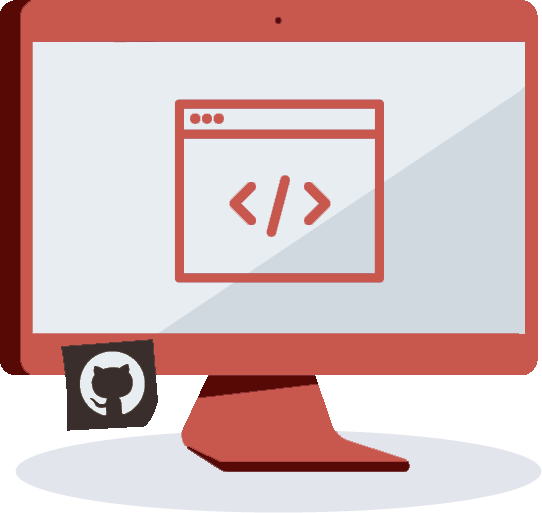
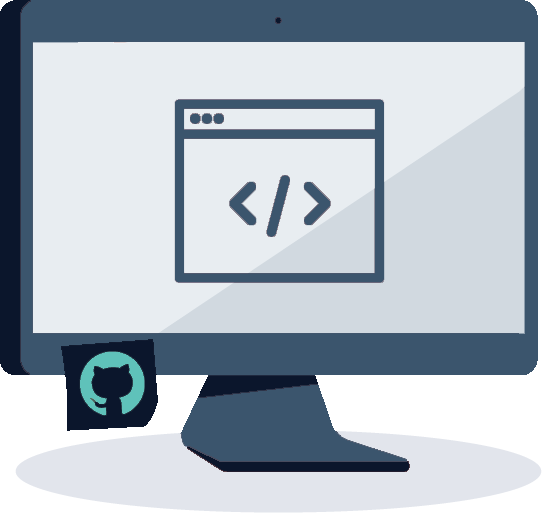
Change all colors for my website

diff --git a/src/components/portfolio/portfolio.min.css b/src/components/portfolio/portfolio.min.css
@@ -1,1 +1,1 @@
-.portfolio{background-color:#D5CABC;text-align:center;flex-direction:column;align-items:center}.portfolio .tools{color:#560905;text-transform:uppercase;font-weight:500}.portfolio p{color:#560905}.portfolio h1{font-size:50px;color:#560905}.portfolio ul{margin:10px;padding:0;list-style:none;display:flex;align-items:center;justify-content:center;padding-bottom:15px;color:#560905}@media (max-width: 768px){.portfolio ul{display:flex;flex-direction:column;justify-content:space-between;margin-bottom:10px}}.portfolio .container{width:100%;display:flex}.container2{width:100%;height:auto;text-align:center}.container2 .title_portfolio{padding-bottom:15px;text-transform:uppercase}.container2 .formation_portfolio{padding-top:20px;font-size:25px;text-transform:uppercase;font-weight:500}.container2 img{display:block;margin-right:auto;margin-left:auto;padding-bottom:10%}@media (max-width: 768px){.container2 img{width:100%}}@media (max-width: 1380px){.container2 img{width:100%}}.container2 .cta-links{font-size:25px;display:flex;align-items:center;text-align:center;justify-content:center}.container2 .cta-links a{text-decoration:none;color:#2997ff;cursor:pointer;padding-right:2%}.btn-portfolio{padding:10px 20px;margin-right:50px;display:block;font-size:18px;background-color:#C8574D;color:white;border-radius:15px;border:none;cursor:pointer;text-transform:uppercase}.btn-portfolio:hover{color:white;background:#392E2C;text-decoration:none}.modal_portfolio,.overlay{width:100vw;height:100vh;top:0;left:0;right:0;bottom:0;position:fixed}.overlay{background:rgba(49,49,49,0.8)}.modal_content{position:absolute;top:50%;left:50%;transform:translate(-50%, -50%);line-height:1.4;background:#f1f1f1;padding:30px 28px;border-radius:3px;width:65%}.modal_content h1{font-size:2.5rem;text-align:center;padding:25px 0}.modal_details{text-align:center;padding-bottom:2rem;border-bottom:1px solid #392E2C}@media (max-width: 768px){.modal_details{padding-bottom:1rem}}.modal_details h1{font-size:3.2rem;padding:0}@media (max-width: 768px){.modal_details h1{font-size:2rem}}.modal_details h2{color:#C8574D;font-size:1.5rem;padding-top:10px}.modal_details p{font-size:1.3rem;padding:20px 0;text-align:justify}@media (max-width: 768px){.modal_details p{font-size:1rem;padding:10px 0}}.modal_details a{font-weight:500;color:#C8574D;font-size:1.2rem;cursor:pointer;text-transform:uppercase}.modal_title{font-size:3.2rem}.modal_description{margin-top:2rem;font-size:1.6rem}.modal_text{font-size:1.3rem;padding:10px 0;text-align:justify}@media (max-width: 768px){.modal_text{font-size:1rem;padding:0}}.close_modal{position:absolute;top:10px;right:10px;padding:5px 7px;border-radius:100%;border:1px solid rgba(255,255,255,0);background:transparent;font-size:2.4rem;letter-spacing:0.2rem;transition:0.2s;cursor:pointer}.close_modal:focus,.close_modal:hover{border-color:rgba(255,255,255,0);transform:translateY(-0.2rem)}
+.portfolio{background-color:#fff;text-align:center;flex-direction:column;align-items:center}.portfolio .tools{color:#0B162C;text-transform:uppercase;font-weight:500}.portfolio p{color:#0B162C}.portfolio h1{font-size:50px;color:#0B162C}.portfolio ul{margin:10px;padding:0;list-style:none;display:flex;align-items:center;justify-content:center;padding-bottom:15px;color:#0B162C}@media (max-width: 768px){.portfolio ul{display:flex;flex-direction:column;justify-content:space-between;margin-bottom:10px}}.portfolio .container{width:100%;display:flex}.container2{width:100%;height:auto;text-align:center}.container2 .title_portfolio{padding-bottom:15px;text-transform:uppercase}.container2 .formation_portfolio{padding-top:20px;font-size:25px;text-transform:uppercase;font-weight:500}.container2 img{display:block;margin-right:auto;margin-left:auto;padding-bottom:10%}@media (max-width: 768px){.container2 img{width:100%}}@media (max-width: 1380px){.container2 img{width:100%}}.container2 .cta-links{font-size:25px;display:flex;align-items:center;text-align:center;justify-content:center}.container2 .cta-links a{text-decoration:none;color:#2997ff;cursor:pointer;padding-right:2%}.btn-portfolio{padding:10px 20px;margin-right:50px;display:block;font-size:18px;background-color:#3B556D;color:white;border-radius:15px;border:none;cursor:pointer;text-transform:uppercase}.btn-portfolio:hover{color:white;background:#5FC2BA;text-decoration:none}.modal_portfolio,.overlay{width:100vw;height:100vh;top:0;left:0;right:0;bottom:0;position:fixed}.overlay{background:rgba(49,49,49,0.8)}.modal_content{position:absolute;top:50%;left:50%;transform:translate(-50%, -50%);line-height:1.4;background:#f1f1f1;padding:30px 28px;border-radius:3px;width:65%}.modal_content h1{font-size:2.5rem;text-align:center;padding:25px 0}.modal_details{text-align:center;padding-bottom:2rem;border-bottom:1px solid #0B162C}@media (max-width: 768px){.modal_details{padding-bottom:1rem}}.modal_details h1{font-size:3.2rem;padding:0}@media (max-width: 768px){.modal_details h1{font-size:2rem}}.modal_details h2{color:#3B556D;font-size:1.5rem;padding-top:10px}.modal_details p{font-size:1.3rem;padding:20px 0;text-align:justify}@media (max-width: 768px){.modal_details p{font-size:1rem;padding:10px 0}}.modal_details a{font-weight:500;color:#3B556D;font-size:1.2rem;cursor:pointer;text-transform:uppercase;font-weight:800}.modal_title{font-size:3.2rem}.modal_description{margin-top:2rem;font-size:1.6rem}.modal_text{font-size:1.3rem;padding:10px 0;text-align:justify}@media (max-width: 768px){.modal_text{font-size:1rem;padding:0}}.close_modal{position:absolute;top:10px;right:10px;padding:5px 7px;border-radius:100%;border:1px solid rgba(255,255,255,0);background:transparent;font-size:2.4rem;letter-spacing:0.2rem;transition:0.2s;cursor:pointer}.close_modal:focus,.close_modal:hover{border-color:rgba(255,255,255,0);transform:translateY(-0.2rem)}

diff --git a/src/components/works/works.min.css b/src/components/works/works.min.css
@@ -1,1 +1,1 @@
-h1{font-size:50px;text-align:center;padding-bottom:50px;color:#1C263D;text-transform:uppercase}.section{display:flex;justify-content:center;padding-left:75px}.wall{display:flex}.v-boxes{display:flex;flex-direction:column}.v-boxes:not(:first-child){margin-left:-75px}.second{margin-top:75px}.third{margin-top:150px}.forth{margin-top:225px}.box{width:100px;height:100px;-webkit-transform:rotate(45deg);-ms-transform:rotate(45deg);-moz-transform:rotate(45deg);transform:rotate(45deg);margin:25px;cursor:pointer}.box:hover:not(.link)>.box-face,.box:hover>.box-back{transform:translateZ(100px) rotateX(180deg);background-color:transparent !important}.box:hover:not(.link)>.box-face>.box-text{opacity:0}.box:hover .tooltip{visibility:visible;opacity:1}.box:hover.link>.box-face{background-color:transparent !important}.box:hover.link>.box-face>.box-text{color:#323232}.box.link>.box-face{background-color:#323232;border:1px solid #323232;box-sizing:border-box;transition:background-color .5s}.box.link .box-text{color:#efefef;transition:color .5s}.box-face,.box-back{cursor:pointer;position:absolute;top:0;z-index:1;width:100px;height:100px;background-color:#333533;-webkit-transform:rotate(90deg);-ms-transform:rotate(90deg);-moz-transform:rotate(90deg);transform:rotate(90deg);transform-style:preserver-3d;-webkit-transform-style:preserver-3d;-moz-transform-style:preserver-3d;transition:transform 1s, background-color 0s .3s}.box-face .box-text{padding-right:20px;padding-bottom:20px;text-align:center;font-size:40px;color:#bababa;-webkit-transform:rotate(-135deg);-ms-transform:rotate(-135deg);-moz-transform:rotate(-135deg);transform:rotate(-135deg);transition:opacity 0s linear .3s}.box-back .box-text{position:absolute;top:50%;left:10%;text-align:center;font-size:14px;color:#636363;-webkit-transform:rotate(-135deg);-ms-transform:rotate(-90deg);-moz-transform:rotate(-90deg);transform:rotate(-135deg) rotateY(180deg);transition:opacity 0s linear .3s}a{color:inherit;text-decoration:none}.box-text{fill:white}.box-back{z-index:0;background-image:linear-gradient(#fff, #efefef)}.box-text img{max-width:32px;max-height:32px;-webkit-filter:grayscale(100%) saturate(0);filter:grayscale(100%) saturate(0);opacity:.5}.tooltip{visibility:hidden;opacity:0;position:absolute;bottom:26px;left:30px;width:70px;font-size:13px;color:#000;text-align:center;border-top:1px solid rgba(0,0,0,0.8);padding:5px 0;z-index:1000;-webkit-transform:rotate(-45deg);-ms-transform:rotate(-45deg);-moz-transform:rotate(-45deg);transform:rotate(-45deg);transition:visibility 0s linear .3s, opacity 1s linear .3s}.tooltip:after{position:absolute;top:-5px;left:35px;content:' ';width:0;height:0;border-left:5px solid transparent;border-right:5px solid transparent;border-bottom:5px solid black}
+.skills{background-color:#fff}h1{font-size:50px;text-align:center;padding-bottom:50px;color:#560905;text-transform:uppercase}.section{display:flex;justify-content:center;padding-left:75px}.wall{display:flex}.v-boxes{display:flex;flex-direction:column}.v-boxes:not(:first-child){margin-left:-75px}.second{margin-top:75px}.third{margin-top:150px}.forth{margin-top:225px}.box{width:100px;height:100px;-webkit-transform:rotate(45deg);-ms-transform:rotate(45deg);-moz-transform:rotate(45deg);transform:rotate(45deg);margin:25px;cursor:pointer}.box:hover:not(.link)>.box-face,.box:hover>.box-back{transform:translateZ(100px) rotateX(180deg);background-color:transparent !important}.box:hover:not(.link)>.box-face>.box-text{opacity:0}.box:hover .tooltip{visibility:visible;opacity:1}.box:hover.link>.box-face{background-color:transparent !important}.box:hover.link>.box-face>.box-text{color:#323232}.box.link>.box-face{background-color:#323232;border:1px solid #323232;box-sizing:border-box;transition:background-color .5s}.box.link .box-text{color:#efefef;transition:color .5s}.box-face,.box-back{cursor:pointer;position:absolute;top:0;z-index:1;width:100px;height:100px;background-color:#392E2C;-webkit-transform:rotate(90deg);-ms-transform:rotate(90deg);-moz-transform:rotate(90deg);transform:rotate(90deg);transform-style:preserver-3d;-webkit-transform-style:preserver-3d;-moz-transform-style:preserver-3d;transition:transform 1s, background-color 0s .3s}.box-face .box-text{padding-right:20px;padding-bottom:20px;text-align:center;font-size:40px;color:#bababa;-webkit-transform:rotate(-135deg);-ms-transform:rotate(-135deg);-moz-transform:rotate(-135deg);transform:rotate(-135deg);transition:opacity 0s linear .3s}.box-back .box-text{position:absolute;top:50%;left:10%;text-align:center;font-size:14px;color:#636363;-webkit-transform:rotate(-135deg);-ms-transform:rotate(-90deg);-moz-transform:rotate(-90deg);transform:rotate(-135deg) rotateY(180deg);transition:opacity 0s linear .3s}a{color:inherit;text-decoration:none}.box-text{fill:white}.box-back{z-index:0;background-image:linear-gradient(#fff, #efefef)}.box-text img{max-width:32px;max-height:32px;-webkit-filter:grayscale(100%) saturate(0);filter:grayscale(100%) saturate(0);opacity:.5}.tooltip{visibility:hidden;opacity:0;position:absolute;bottom:26px;left:30px;width:70px;font-size:13px;color:#000;text-align:center;border-top:1px solid rgba(0,0,0,0.8);padding:5px 0;z-index:1000;-webkit-transform:rotate(-45deg);-ms-transform:rotate(-45deg);-moz-transform:rotate(-45deg);transform:rotate(-45deg);transition:visibility 0s linear .3s, opacity 1s linear .3s}.tooltip:after{position:absolute;top:-5px;left:35px;content:' ';width:0;height:0;border-left:5px solid transparent;border-right:5px solid transparent;border-bottom:5px solid black}

diff --git a/src/components/about/about.min.css b/src/components/about/about.min.css
@@ -1,1 +1,1 @@
-.about{background-color:#D5CABC;display:flex}.about p{color:#560905;font-size:20px}.about .about-content{display:flex;flex-wrap:wrap;align-items:center;justify-content:space-between}@media (max-width: 768px){.about .about-content{flex-direction:column;align-items:center}}@media (max-width: 1224px){.about .about-content{flex-direction:column;align-items:center}}.about .max-width{max-width:1300px;padding:0 80px;margin:50px auto}@media (max-width: 768px){.about .max-width{width:100%;padding:0px 50px;margin:50px 0px}}@media (max-width: 1224px){.about .max-width{width:100%;padding:0px 50px;margin:50px 0px}}.about .about .about-content .left{width:45%}.about .about-content .right{width:55%}@media (max-width: 1224px){.about .about-content .right{width:100%}}.about .title{position:relative;text-align:center;font-size:50px;font-weight:500;margin-bottom:60px;padding-bottom:20px;overflow:hidden}.about .title::after{content:'who i am'}.about .title::before{content:'';position:absolute;bottom:0px;left:50%;width:180px;height:3px;background:#111;transform:translateX(-50%)}.about .title::after{position:absolute;bottom:-4px;left:50%;font-size:20px;color:#C8574D;padding:0 5px;background:#D5CABC;transform:translateX(-50%)}.about .about-content .left{width:45%}@media (max-width: 768px){.about .about-content .left{width:100%}}@media (max-width: 1224px){.about .about-content .left{width:100%;text-align:center}}.about .about-content .left img{height:auto;width:auto;object-fit:cover;border-radius:6px}@media (max-width: 768px){.about .about-content .left img{height:100%;width:100%;padding-bottom:50px}}@media (max-width: 1224px){.about .about-content .left img{height:50%;width:50%;padding-bottom:50px}}.about about-content .right{width:55%}.about .about-content .right .text{font-size:25px;font-weight:600;margin-bottom:10px}@media (max-width: 768px){.about .about-content .right .text{width:100%}}@media (max-width: 1224px){.about .about-content .right .text{text-align:center}}.about .about-content .right .text span{color:#C8574D;text-transform:uppercase;padding-left:10px}.about .about-content .right p{text-align:justify;line-height:25px}.about .about-content .right a{display:inline-block;background:#C8574D;color:white;font-size:20px;font-weight:500;padding:10px 30px;margin-top:20px;border-radius:6px;transition:all 0.3s ease;text-decoration:none}@media (max-width: 768px){.about .about-content .right a{font-size:18px}}@media (max-width: 1224px){.about .about-content .right a{text-align:center}}.about .about-content .right a:hover{color:white;background:#392E2C;text-decoration:none}
+.about{background-color:#fff;display:flex}.about p{color:#0B162C;font-size:20px}.about .about-content{display:flex;flex-wrap:wrap;align-items:center;justify-content:space-between}@media (max-width: 768px){.about .about-content{flex-direction:column;align-items:center}}@media (max-width: 1224px){.about .about-content{flex-direction:column;align-items:center}}.about .max-width{max-width:1300px;padding:0 80px;margin:50px auto}@media (max-width: 768px){.about .max-width{width:100%;padding:0px 50px;margin:50px 0px}}@media (max-width: 1224px){.about .max-width{width:100%;padding:0px 50px;margin:50px 0px}}.about .about .about-content .left{width:45%}.about .about-content .right{width:55%}@media (max-width: 1224px){.about .about-content .right{width:100%}}.about .title{position:relative;text-align:center;font-size:50px;font-weight:500;margin-bottom:60px;padding-bottom:20px;overflow:hidden}.about .title::after{content:'who i am'}.about .title::before{content:'';position:absolute;bottom:0px;left:50%;width:180px;height:3px;background:#111;transform:translateX(-50%)}.about .title::after{position:absolute;bottom:-4px;left:50%;font-size:20px;color:#3B556D;padding:0 5px;background:#fff;transform:translateX(-50%)}.about .about-content .left{width:45%}@media (max-width: 768px){.about .about-content .left{width:100%}}@media (max-width: 1224px){.about .about-content .left{width:100%;text-align:center}}.about .about-content .left img{height:auto;width:auto;object-fit:cover;border-radius:6px}@media (max-width: 768px){.about .about-content .left img{height:100%;width:100%;padding-bottom:50px}}@media (max-width: 1224px){.about .about-content .left img{height:50%;width:50%;padding-bottom:50px}}.about about-content .right{width:55%}.about .about-content .right .text{font-size:25px;font-weight:600;margin-bottom:10px}@media (max-width: 768px){.about .about-content .right .text{width:100%}}@media (max-width: 1224px){.about .about-content .right .text{text-align:center}}.about .about-content .right .text span{color:#3B556D;text-transform:uppercase;padding-left:10px}.about .about-content .right p{text-align:justify;line-height:25px}.about .about-content .right a{display:inline-block;background:#3B556D;color:white;font-size:20px;font-weight:500;padding:10px 30px;margin-top:20px;border-radius:6px;transition:all 0.3s ease;text-decoration:none}@media (max-width: 768px){.about .about-content .right a{font-size:18px}}@media (max-width: 1224px){.about .about-content .right a{text-align:center}}.about .about-content .right a:hover{color:white;background:#5FC2BA;text-decoration:none}

diff --git a/src/components/topbar/topbar.min.css b/src/components/topbar/topbar.min.css
@@ -1,1 +1,1 @@
-.topbar{width:100%;height:70px;background-color:#D5CABC;color:#fff;position:fixed;top:0;z-index:3;transition:all 1s ease}.topbar .wrapper{padding:10px 30px;display:flex;align-items:center;justify-content:space-between}.topbar .wrapper .btn_top_bar{background:#C8574D;color:white;font-size:20px;font-weight:500;padding:2px 20px;margin-top:20px;border-radius:6px;margin:10px;transition:all 0.3s ease;text-decoration:none;border:none;cursor:pointer;text-transform:uppercase}.topbar .wrapper .btn_top_bar:hover{color:white;background:#392E2C;text-decoration:none}.topbar .wrapper .left{display:flex;align-items:center}.topbar .wrapper .left .logo{font-size:35px;font-weight:700;text-decoration:none;color:inherit;margin-right:40px}.topbar .wrapper .left .logo a{color:#fff;font-size:35px;font-weight:600}.topbar .wrapper .left .logo span{color:#C8574D;transition:all 0.3s ease}.topbar .wrapper .left .top_bar_langages{display:flex;align-items:center;margin-left:30px}@media (max-width: 768px){.topbar .wrapper .left .top_bar_langages{display:none}}.topbar .wrapper .left .itemContainer{display:flex;align-items:center;margin-left:30px}@media (max-width: 768px){.topbar .wrapper .left .itemContainer{display:none}}@media (max-width: 1224px){.topbar .wrapper .left .itemContainer{display:none}}.topbar .wrapper .left .itemContainer .icon{font-size:18px;margin-right:5px}.topbar .wrapper .left .itemContainer span{font-size:15px;font-weight:400;color:#C8574D}.topbar .right .hamburger{width:32px;height:25px;display:flex;flex-direction:column;justify-content:space-between;cursor:pointer}.topbar .right .hamburger span{width:100%;height:3px;background-color:#392E2C;transform-origin:left;transition:all 2s ease}.topbar.active{background-color:#392E2C;color:#C8574D}.topbar.active .hamburger span:first-child{background-color:white;transform:rotate(45deg)}.topbar.active .hamburger span:nth-child(2){opacity:0}.topbar.active .hamburger span:last-child{background-color:white;transform:rotate(-45deg)}
+.topbar{width:100%;height:70px;background-color:#fff;color:#fff;position:fixed;top:0;z-index:3;transition:all 1s ease}.topbar .wrapper{padding:10px 30px;display:flex;align-items:center;justify-content:space-between}.topbar .wrapper .btn_top_bar{background:#3B556D;color:white;font-size:20px;font-weight:500;padding:2px 20px;margin-top:20px;border-radius:6px;margin:10px;transition:all 0.3s ease;text-decoration:none;border:none;cursor:pointer;text-transform:uppercase}.topbar .wrapper .btn_top_bar:hover{color:white;background:#427AA1;text-decoration:none}.topbar .wrapper .left{display:flex;align-items:center}.topbar .wrapper .left .logo{font-size:35px;font-weight:700;text-decoration:none;color:inherit;margin-right:40px}.topbar .wrapper .left .logo a{color:#fff;font-size:35px;font-weight:600}.topbar .wrapper .left .logo span{color:#3B556D;transition:all 0.3s ease}.topbar .wrapper .left .top_bar_langages{display:flex;align-items:center;margin-left:30px}@media (max-width: 768px){.topbar .wrapper .left .top_bar_langages{display:none}}.topbar .wrapper .left .itemContainer{display:flex;align-items:center;margin-left:30px}@media (max-width: 768px){.topbar .wrapper .left .itemContainer{display:none}}@media (max-width: 1224px){.topbar .wrapper .left .itemContainer{display:none}}.topbar .wrapper .left .itemContainer .icon{font-size:18px;margin-right:5px}.topbar .wrapper .left .itemContainer span{font-size:15px;font-weight:400;color:#3B556D}.topbar .right .hamburger{width:32px;height:25px;display:flex;flex-direction:column;justify-content:space-between;cursor:pointer}.topbar .right .hamburger span{width:100%;height:3px;background-color:#0B162C;transform-origin:left;transition:all 2s ease}.topbar.active{background-color:#0B162C;color:#3B556D}.topbar.active .hamburger span:first-child{background-color:white;transform:rotate(45deg)}.topbar.active .hamburger span:nth-child(2){opacity:0}.topbar.active .hamburger span:last-child{background-color:white;transform:rotate(-45deg)}

diff --git a/src/components/teams/teams.scss b/src/components/teams/teams.scss
@@ -3,85 +3,18 @@
 .teams {
   box-sizing: border-box;
 
-  h1 {
-    color: $text-color;
-  }
-
-  .services_section {
-    padding: 35px 0;
-
   img {
-    text-align: center;
-    margin: auto;
-    display: flex;
-    }
+    display: block;
+    margin-left: auto;
+    margin-right: auto;
+    width: 50%;
 
-    .inner_width {
+    @include mobile{
       width: 100%;
-      max-width: 1200px;
-      margin: auto;
-      padding: 0 20px;
-      overflow: hidden;
-      @include mobile {
-        padding: 0 0;
-      }
     }
 
-    .services_container {
-      display: flex;
-      flex-wrap: wrap;
-      justify-content: center;
-    }
-
-    .service_box {
-      max-width: 40.33%;
-      padding: 10px;
-      text-align: center;
-      color: #ddd;
-      cursor: pointer;
-      color: black;
-      @include mobile {
-        max-width: 50%;
-      }
-    }
-
-    .service_icon {
-      display: inline-block;
-      width: 70px;
-      height: 70px;
-      border: 3px solid $taupe;
-      color: $taupe;
-      transform: rotate(45deg);
-      margin-bottom: 30px;
-      margin-top: 16px;
-      transition: 0.3s linear;
-
-      .icon_top {
-        transform: rotate(-45deg);
-        font-size: 35px;
-        position: relative;
-        padding-right: 15px;
-        padding-top: 15px;
-      }
-    }
-
-    .service_box:hover .service_icon {
-      background-color: $salmon-color;
-      border: $salmon-color;
-      color: #ddd;
-    }
-
-    .service_title {
-      font-size: 18px;
-      text-transform: uppercase;
-      margin-bottom: 10px;
-      color: $text-color;
-      font-weight: 500;
-    }
-
-    .service_descr {
-      font-size: 16px;
-      color: $text-color;
+    @include computer{
+      width: 100%;
     }
   }
 }

diff --git a/src/components/teams/teams.min.css b/src/components/teams/teams.min.css
@@ -1,1 +1,1 @@
-.teams{box-sizing:border-box}.teams h1{color:#1C263D}.teams .services_section{padding:35px 0}.teams .services_section img{text-align:center;margin:auto;display:flex}.teams .services_section .inner_width{width:100%;max-width:1200px;margin:auto;padding:0 20px;overflow:hidden}@media (max-width: 768px){.teams .services_section .inner_width{padding:0 0}}.teams .services_section .services_container{display:flex;flex-wrap:wrap;justify-content:center}.teams .services_section .service_box{max-width:40.33%;padding:10px;text-align:center;color:#ddd;cursor:pointer;color:black}@media (max-width: 768px){.teams .services_section .service_box{max-width:50%}}.teams .services_section .service_icon{display:inline-block;width:70px;height:70px;border:3px solid #333533;color:#333533;transform:rotate(45deg);margin-bottom:30px;margin-top:16px;transition:0.3s linear}.teams .services_section .service_icon .icon_top{transform:rotate(-45deg);font-size:35px;position:relative;padding-right:15px;padding-top:15px}.teams .services_section .service_box:hover .service_icon{background-color:#242423;border:#242423;color:#ddd}.teams .services_section .service_title{font-size:18px;text-transform:uppercase;margin-bottom:10px;color:#1C263D;font-weight:500}.teams .services_section .service_descr{font-size:16px;color:#1C263D}
+.teams{box-sizing:border-box}.teams img{display:block;margin-left:auto;margin-right:auto;width:50%}@media (max-width: 768px){.teams img{width:100%}}@media (max-width: 1224px){.teams img{width:100%}}

diff --git a/src/components/teams/Teams.jsx b/src/components/teams/Teams.jsx
@@ -1,25 +1,12 @@
 import './teams.scss';
-import { library } from '@fortawesome/fontawesome-svg-core';
-import { FontAwesomeIcon } from '@fortawesome/react-fontawesome';
-import {
-  faPaintBrush,
-  faCodeBranch,
-  faLayerGroup,
-  faMobileAlt,
-  faBuilding
-} from '@fortawesome/free-solid-svg-icons';
 import { useTranslation } from 'react-i18next';
 
 export default function Teams() {
   const { t } = useTranslation();
   return (
-    <div classname="teams" id="teams">
-           <h1 classname="title">{t('Teams.6')}</h1>
-             <div classname="services_section">
-               <div className="image-wrapper">
-                 <img src="assets/wordcloud.png" alt="" />
-               </div>
-             </div>
-           </div>
+    <div className="teams" id="teams">
+      <h1 className="title">{t('Teams.6')}</h1>
+          <img src="assets/wordcloud.png" alt="" />
+    </div>
   );
 }

diff --git a/src/app.min.css b/src/app.min.css
@@ -1,1 +1,1 @@
-.app{height:100vh}.app .title{text-transform:uppercase;padding-top:15px}.app .sections{width:100%;height:calc(100vh - 70px);background-color:#D5CABC;position:relative;top:70px;scroll-behavior:smooth;scroll-snap-type:y mandatory;scrollbar-width:none}.app .sections::-webkit-scrollbar{display:none}.app .sections>*{width:100vw;height:calc(100vh - 70px);scroll-snap-align:start}
+.app{height:100vh}.app .title{text-transform:uppercase;padding-top:15px}.app .sections{width:100%;height:calc(100vh - 70px);background-color:#FFFFFF;position:relative;top:70px;scroll-behavior:smooth;scroll-snap-type:y mandatory;scrollbar-width:none}.app .sections::-webkit-scrollbar{display:none}.app .sections>*{width:100vw;height:calc(100vh - 70px);scroll-snap-align:start}

diff --git a/src/components/menu/Menu.jsx b/src/components/menu/Menu.jsx
@@ -16,10 +16,10 @@ export default function Menu({ menuOpen, setMenuOpen }) {
           <a href="#about">{t('Menu.1')}</a>
         </li>
         <li onClick={() => setMenuOpen(false)}>
-          <a href="#teams">Teams</a>
+          <a href="#portfolio">Portfolio</a>
         </li>
         <li onClick={() => setMenuOpen(false)}>
-          <a href="#portfolio">Portfolio</a>
+          <a href="#teams">Teams</a>
         </li>
         <li onClick={() => setMenuOpen(false)}>
           <a href="#skills">{t('Menu.2')}</a>

diff --git a/src/components/portfolio/portfolio.scss b/src/components/portfolio/portfolio.scss
@@ -104,7 +104,7 @@
 
   &:hover {
     color: white;
-    background: $taupe;
+    background: $hover-button;
     text-decoration: none;
   }
 }
@@ -181,6 +181,7 @@
     font-size: 1.2rem;
     cursor: pointer;
     text-transform: uppercase;
+    font-weight: 800;
   }
 }
 

diff --git a/src/app.scss b/src/app.scss
@@ -9,7 +9,7 @@
   .sections{
     width: 100%;
     height: calc(100vh - 70px);
-    background-color: #D5CABC;
+    background-color: #FFFFFF;
     position: relative;
     top: 70px;
     scroll-behavior: smooth;

diff --git a/src/components/about/about.scss b/src/components/about/about.scss
@@ -170,7 +170,7 @@
   }
   .about-content .right a:hover {
     color: white;
-    background: $taupe;
+    background: $hover-button;
     text-decoration: none;
   }
 }
